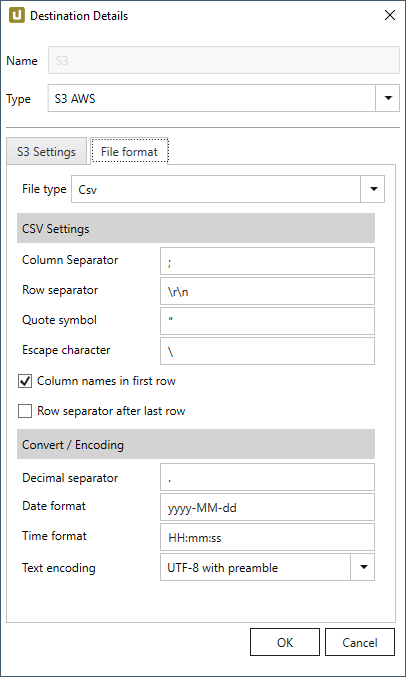
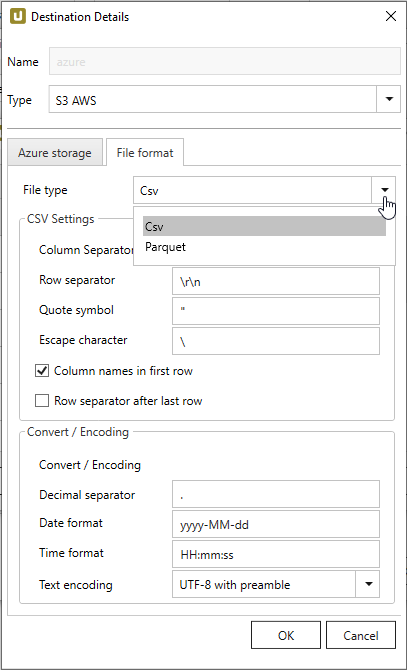
aws s3 pure / spark de/ en

Changed region(s): [[0.0, 0.0, 1.0, 1.0], [0.9458, 0.0, 1.0, 0.0299]]

diff --git a/content/_de/xtract-universal/xu-destinationen/azure-storage/blob-verbindung.md b/content/_de/xtract-universal/xu-destinationen/azure-storage/blob-verbindung.md
@@ -149,8 +149,9 @@ Option zum Erstellen eines Verzeichnisses innerhalb des Containers zum Abspeiche
 ### File Format 
 Wählen Sie das gewünschte Dateiformat zwischen "Parquet" und "CSV".
 ![azure_blob_destination_settings_csv_settings](/img/content/xu/xu-azure-blob-con-04.png){:class="img-responsive"}
+Die "CSV" Einstellungen entsprechen denen der allgemeinen [Flat File CSV Einstellungen](../csv-flat-file).
 
-Wenn Sie "Parquet" Dateiformat auswählen, können Sie zwischen "Pure" und "Spark" Kompabilitätsmodi auswählen.
+Wenn Sie "Parquet" Dateiformat auswählen, können Sie im Feld "Compatibility mode" zwischen "Pure" und "Spark" auswählen.
 
 ![azure_blob_destination_settings_csv_settings](/img/content/xu/xu-azure-blob-con-05.png){:class="img-responsive"}
 
@@ -160,8 +161,6 @@ Wenn Sie "Parquet" Dateiformat auswählen, können Sie zwischen "Pure" und "Spar
 | TIMS | TIME_MILLIS | UTF8 |
 
 Spark unterstützt nicht die im Pure-Mode verwendeten Datentypen, daher müssen andere Datentypen verwendet werden.
-
-Die "CSV" Einstellungen entsprechen denen der allgemeinen [Flat File CSV Einstellungen](../csv-flat-file).
 
 ### Retry-Funktion zur Erhaltung der Verbindung
 

diff --git a/content/_en/xtract-universal/xu-destinations/azure-storage/blob-connection.md b/content/_en/xtract-universal/xu-destinations/azure-storage/blob-connection.md
@@ -144,8 +144,9 @@ Option to create a directory within the container for saving files. See also [De
 ### File Format 
 Select the required file format between "Parquet" and "CSV".
 ![azure_blob_destination_settings_csv_settings](/img/content/xu/xu-azure-blob-con-04.png){:class="img-responsive"}
+The settings for file type "CSV" correspond to the [Flat File CSV settings](../csv-flat-file).
 
-When you select "Parquet" file format, you can choose between "Pure" and "Spark" compatibility modes.
+When you select "Parquet" file format, in the field "Compatibility mode" you can choose between "Pure" and "Spark".
 
 ![azure_blob_destination_settings_csv_settings](/img/content/xu/xu-azure-blob-con-05.png){:class="img-responsive"}
 
@@ -156,8 +157,6 @@ When you select "Parquet" file format, you can choose between "Pure" and "Spark"
 | TIMS | TIME_MILLIS | UTF8 |
 
 Spark does not support the datatypes used in pure mode, so other datatypes need to be used.
-
-The settings for file type "CSV" correspond to the [Flat File CSV settings](../csv-flat-file).
 
 ### Connection Retry and Rollback
 

diff --git a/content/_de/xtract-universal/xu-destinationen/amazon_aws_s3/verbindung.md b/content/_de/xtract-universal/xu-destinationen/amazon_aws_s3/verbindung.md
@@ -50,10 +50,19 @@ HINWEIS: Diese Einstellungen beziehen sich nicht auf die Transportverschlüsselu
 
 ### File Format
 Wählen Sie das gewünschte Dateiformat zwischen "Parquet" und "CSV".
-
+![azure_blob_destination_settings_csv_settings](/img/content/xu/XU_S3_DestinationDetails2.png){:class="img-responsive"}
 Die "CSV" Einstellungen entsprechen denen der allgemeinen [Flat File CSV Einstellungen](../csv-flat-file).
 
-![XU_S3_DestinationDetails2](/img/content/xu/XU_S3_DestinationDetails2.png){:class="img-responsive"}
+Wenn Sie "Parquet" Dateiformat auswählen, können Sie im Feld "Compatibility mode" zwischen "Pure" und "Spark" auswählen.
+
+![azure_blob_destination_settings_csv_settings](/img/content/xu/xu_S3_dest_comp_mode.png){:class="img-responsive"}
+
+| SAP | Pure | Spark |
+|------|-------------|-------|
+| INT1 | UINT_8 | INT16 |
+| TIMS | TIME_MILLIS | UTF8 |
+
+Spark unterstützt nicht die im Pure-Mode verwendeten Datentypen, daher müssen andere Datentypen verwendet werden.
 
 ### Retry-Funktion zur Erhaltung der Verbindung
 

diff --git a/content/_en/xtract-universal/xu-destinations/amazon-aws-s3/connection.md b/content/_en/xtract-universal/xu-destinations/amazon-aws-s3/connection.md
@@ -51,10 +51,20 @@ Encryption using a custom encrpytion key created on AWS ([AWS Key Management Ser
 
 ### File Format
 Select the required file format between "Parquet" and "CSV".
-
+![AWS S3](/img/content/xu/XU_S3_DestinationDetails2.png){:class="img-responsive"}
 The settings for file type "CSV" correspond to the [Flat File CSV settings](../csv-flat-file).
-	
-![XU_S3_DestinationDetails2](/img/content/xu/XU_S3_DestinationDetails2.png){:class="img-responsive"}
+
+When you select "Parquet" file format, in the field "Compatibility mode" you can choose between "Pure" and "Spark".
+
+![AWS S3 compability](/img/content/xu/xu_S3_dest_comp_mode.png){:class="img-responsive"}
+
+
+| SAP | Pure | Spark |
+|------|-------------|-------|
+| INT1 | UINT_8 | INT16 |
+| TIMS | TIME_MILLIS | UTF8 |
+
+Spark does not support the datatypes used in pure mode, so other datatypes need to be used.
 
 ### Connection Retry
 
